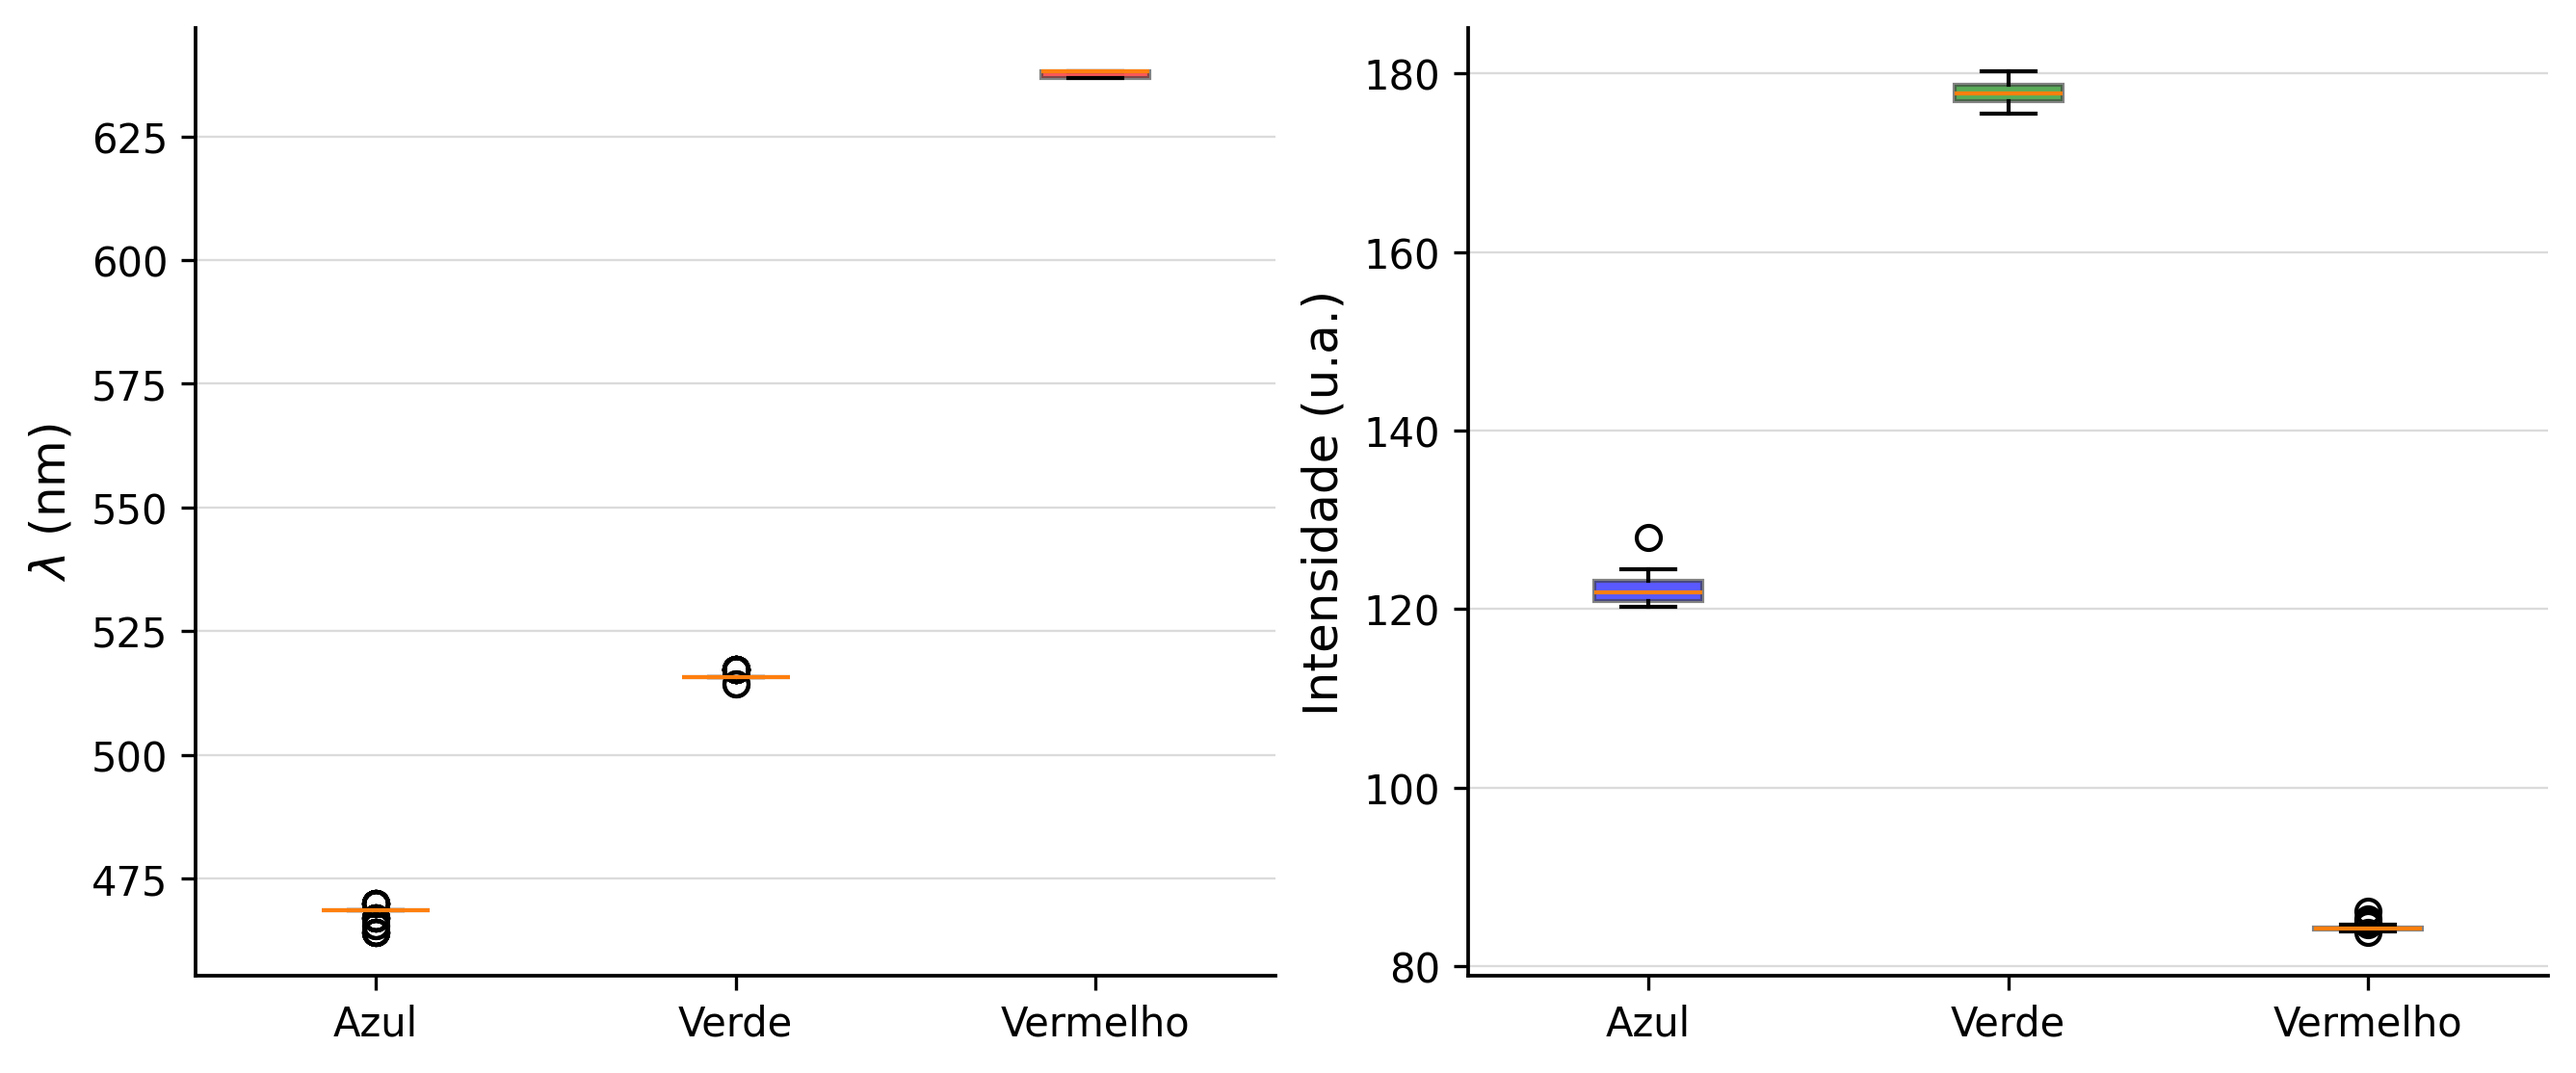
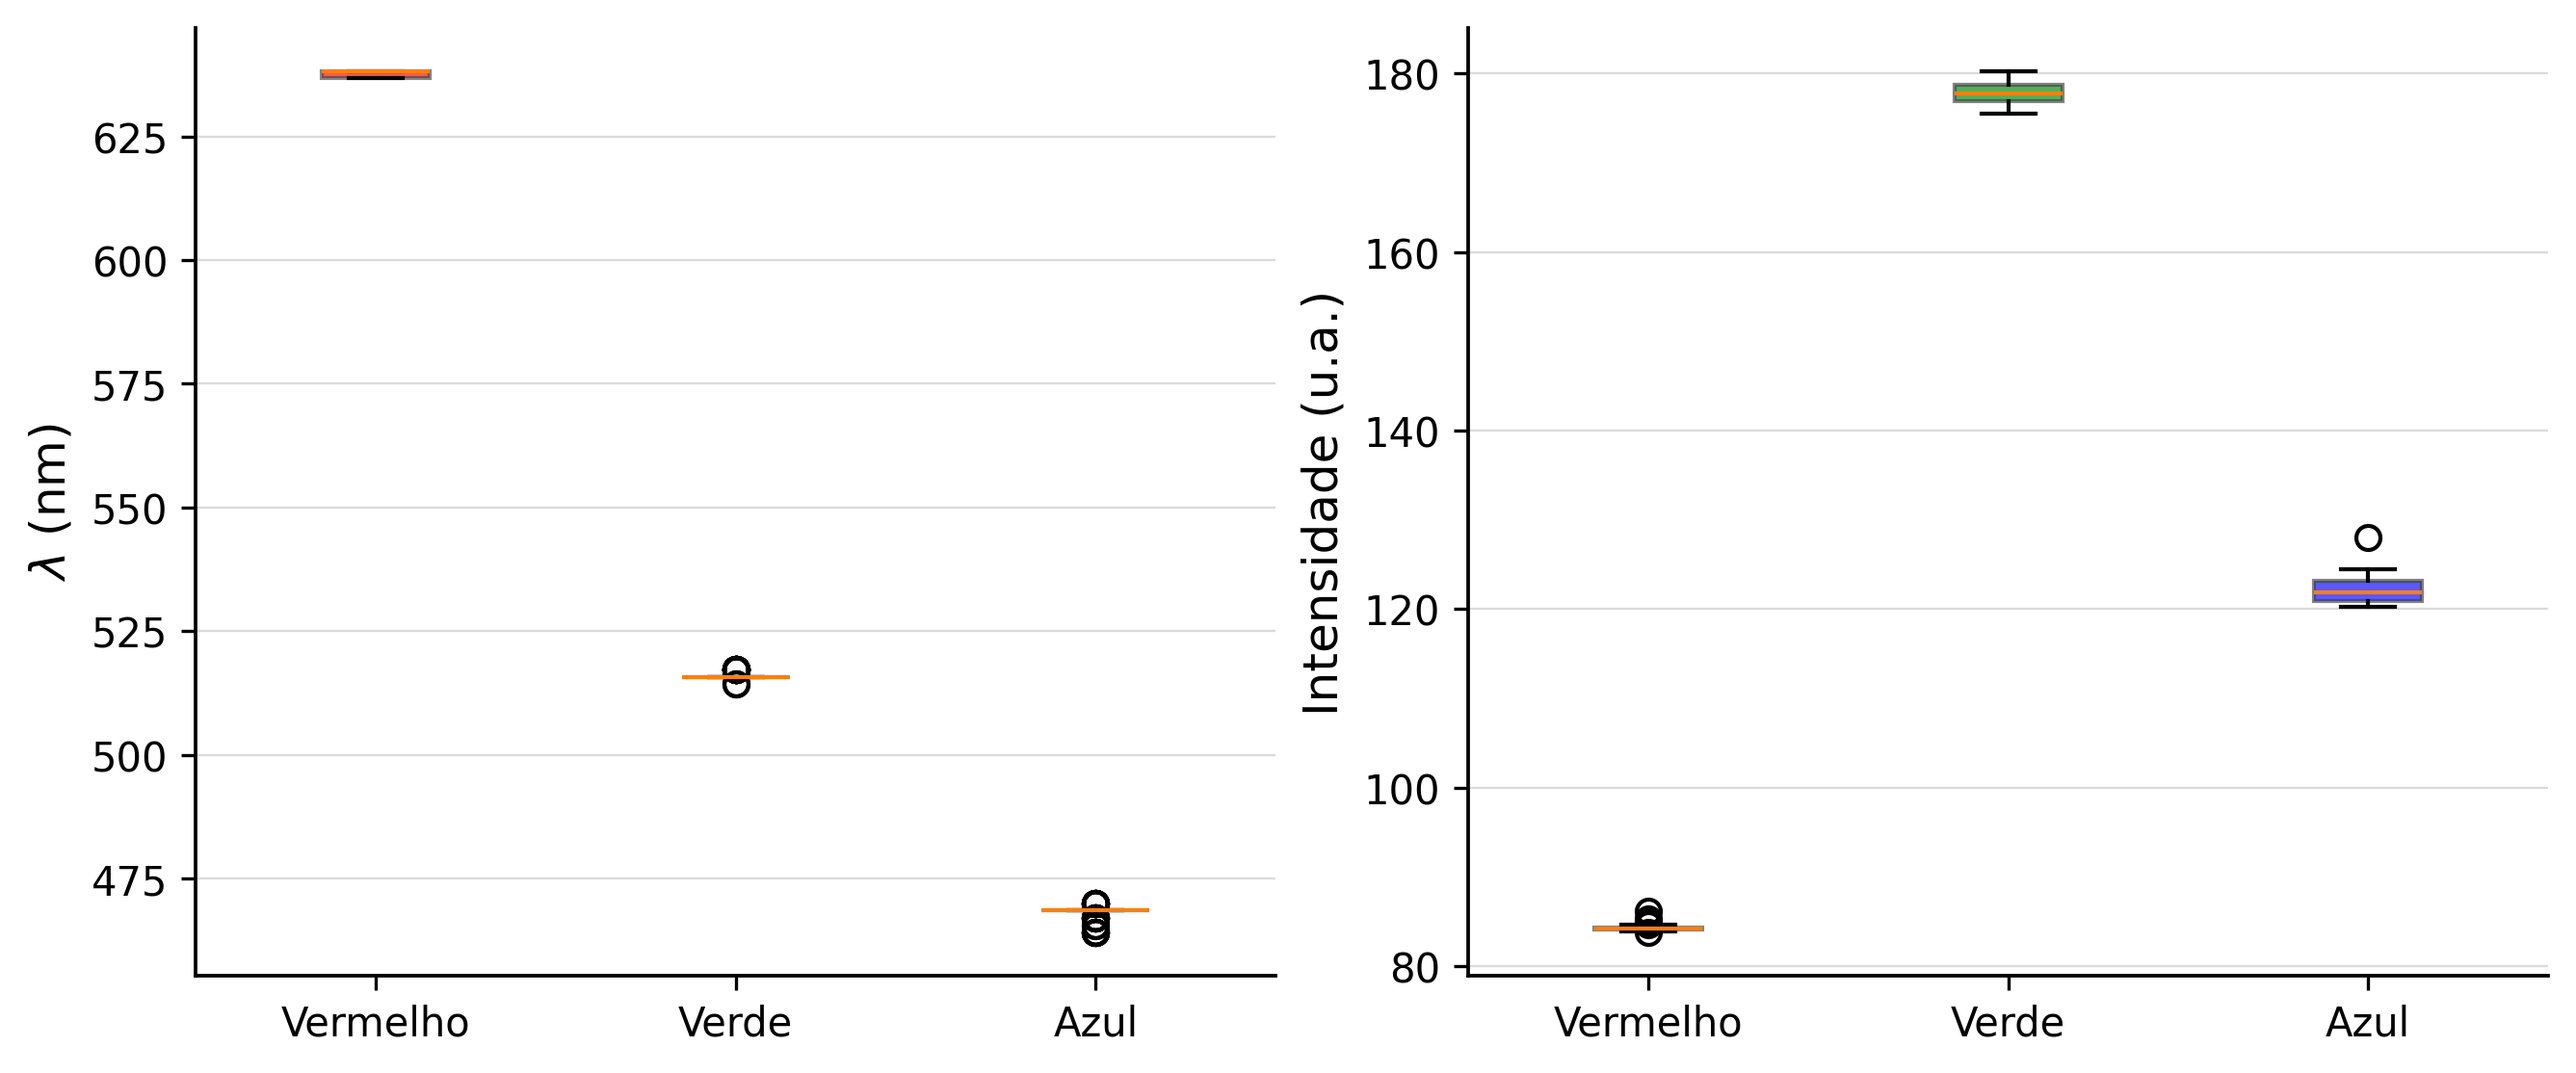
Improve paper temporal plot legend and RGB panel order
Order principal peaks as Vermelho-Verde-Azul in figures, console, and resultados_paper.txt. For evolucao_temporal_3_picos_RGB use distinct markers (triangle, plus, circle) per panel and gray legend glyphs for Dados; regenerate paper figures and comparison text.

Made-with: Cursor

diff --git a/Experimentos/scripts/analise2paper.py b/Experimentos/scripts/analise2paper.py
@@ -6,6 +6,9 @@ Análise de espectros do OSA Visível — variantes de figuras para artigo.
 Mesma lógica que analise.py; os gráficos estatísticos são salvos em
 ``resultados/paper_figures/<fonte>/`` e um resumo textual comparável vai para
 ``resultados/resultados_paper.txt`` (UTF-8, texto simples).
+
+Ordem dos picos principais nas figuras e resumos do paper: Vermelho, Verde, Azul
+(lambda medio decrescente).
 """
 
 import numpy as np
@@ -87,12 +90,40 @@ def _resultados_paper_path():
     return out_dir / "resultados_paper.txt"
 
 
+def _ordem_picos_paper_rvg(grupos_principais_dict, picos_principais_df):
+    """
+    Ordem fixa para figuras e textos do paper: Vermelho, Verde, Azul
+    (comprimento de onda medio decrescente nos picos principais).
+
+    Retorna lista [(grupo_id, grupo_data), ...] e o DataFrame de picos
+    principais alinhado a essa ordem.
+    """
+    if len(grupos_principais_dict) == 0:
+        return [], picos_principais_df
+
+    triplas = []
+    for gid, gdata in grupos_principais_dict.items():
+        sub = picos_principais_df.loc[picos_principais_df["Grupo"] == gid, "Comprimento_Onda_Medio_nm"]
+        if len(sub) > 0:
+            wl_m = float(sub.iloc[0])
+        else:
+            wl_m = float(gdata.get("wl_medio", np.nan))
+        triplas.append((gid, gdata, wl_m))
+
+    triplas.sort(key=lambda t: t[2], reverse=True)
+    pairs_ordered = [(t[0], t[1]) for t in triplas]
+    ordem_ids = [t[0] for t in triplas]
+    idx = picos_principais_df.set_index("Grupo")
+    pdf = idx.loc[ordem_ids].reset_index()
+    return pairs_ordered, pdf
+
+
 def _formatar_bloco_resultados_paper(nome_equipamento, estatisticas_df):
     """
     Texto conciso com metricas dos picos principais RGB (sem simbolos especiais).
     """
     df = estatisticas_df[estatisticas_df["Principal_RGB"] == "Sim"].copy()
-    df = df.sort_values("Comprimento_Onda_Medio_nm")
+    df = df.sort_values("Comprimento_Onda_Medio_nm", ascending=False)
     linhas = []
     linhas.append(f"--- {nome_equipamento} ---")
     linhas.append(f"Numero de picos principais: {len(df)}")
@@ -578,11 +609,20 @@ def gerar_graficos_estatisticos(grupos_picos, estatisticas_df, fonte="visible"):
     if len(grupos_principais) == 0:
         print("[AVISO] Nenhum pico principal identificado. Gerando gráficos de todos os picos.")
         grupos_principais = grupos_picos
+        pairs_ordered = list(grupos_principais.items())
+    else:
+        pairs_ordered, picos_principais_df = _ordem_picos_paper_rvg(
+            grupos_principais, picos_principais_df
+        )
 
-    num_grupos = len(grupos_principais)
+    num_grupos = len(pairs_ordered)
     letters = "abcdefghijklmnopqrstuvwxyz"
 
     # --- Gráfico 1: evolução temporal (enxuto para paper) ---
+    # Marcadores por painel (ordem RVG): triângulo, +, círculo; legenda em cinza escuro.
+    markers_temporal = ("^", "+", "o")
+    cor_legenda_dados = "0.28"
+
     with plt.rc_context(_matplotlib_paper_context()):
         fig, axes = plt.subplots(
             num_grupos,
@@ -594,7 +634,7 @@ def gerar_graficos_estatisticos(grupos_picos, estatisticas_df, fonte="visible"):
         if num_grupos == 1:
             axes = [axes]
 
-        for idx, (grupo_id, grupo_data) in enumerate(grupos_principais.items()):
+        for idx, (grupo_id, grupo_data) in enumerate(pairs_ordered):
             picos = grupo_data["picos"]
             amostras = [p["amostra_idx"] for p in picos]
             wl_values = [p["wl"] for p in picos]
@@ -602,7 +642,28 @@ def gerar_graficos_estatisticos(grupos_picos, estatisticas_df, fonte="visible"):
             cor = grupo_data.get("cor_rgb", "blue")
             nome_cor = grupo_data.get("nome_cor", "?")
             panel = f"({letters[idx]}) {nome_cor}"
-            ax.scatter(amostras, wl_values, alpha=0.72, s=22, color=cor, edgecolors="none")
+            mk = markers_temporal[idx % len(markers_temporal)]
+            pt_size = 30 if mk == "+" else 24
+            if mk == "+":
+                ax.scatter(
+                    amostras,
+                    wl_values,
+                    alpha=0.72,
+                    s=pt_size,
+                    marker=mk,
+                    color=cor,
+                )
+            else:
+                ax.scatter(
+                    amostras,
+                    wl_values,
+                    alpha=0.72,
+                    s=pt_size,
+                    marker=mk,
+                    color=cor,
+                    edgecolors="0.25",
+                    linewidths=0.35,
+                )
             wl_mean = estatisticas_df[estatisticas_df["Grupo"] == grupo_id][
                 "Comprimento_Onda_Medio_nm"
             ].values[0]
@@ -625,16 +686,36 @@ def gerar_graficos_estatisticos(grupos_picos, estatisticas_df, fonte="visible"):
             ax.set_ylim(centro - meia_largura, centro + meia_largura)
 
         axes[-1].set_xlabel("Amostra")
+        handles_legenda = []
+        for idx, (_, gd) in enumerate(pairs_ordered):
+            mk = markers_temporal[idx % len(markers_temporal)]
+            nome = gd.get("nome_cor", "?")
+            ms = 7 if mk != "+" else 8
+            handles_legenda.append(
+                Line2D(
+                    [0],
+                    [0],
+                    marker=mk,
+                    linestyle="none",
+                    color=cor_legenda_dados,
+                    markerfacecolor=cor_legenda_dados,
+                    markeredgecolor=cor_legenda_dados,
+                    markersize=ms,
+                    markeredgewidth=0.8,
+                    label=f"Dados ({nome})",
+                )
+            )
+        handles_legenda.append(
+            Line2D([0], [0], color="0.2", linestyle="--", linewidth=1.35, label="Média")
+        )
         fig.legend(
-            handles=[
-                Line2D([0], [0], marker="o", linestyle="", color="#3f57ff", markersize=6, label="Dados"),
-                Line2D([0], [0], color="0.2", linestyle="--", linewidth=1.35, label="Média"),
-            ],
+            handles=handles_legenda,
             loc="upper center",
             bbox_to_anchor=(0.5, 1.02),
-            ncol=2,
+            ncol=min(4, len(handles_legenda)),
             framealpha=0.95,
             edgecolor="0.85",
+            fontsize=9,
         )
         out1 = pasta_output / "evolucao_temporal_3_picos_RGB.png"
         fig.savefig(out1, dpi=300, bbox_inches="tight")
@@ -646,7 +727,7 @@ def gerar_graficos_estatisticos(grupos_picos, estatisticas_df, fonte="visible"):
     with plt.rc_context(_matplotlib_paper_context()):
         fig, axes = plt.subplots(1, 3, figsize=(10.2, 3.35), constrained_layout=True)
 
-        for idx, (grupo_id, grupo_data) in enumerate(grupos_principais.items()):
+        for idx, (grupo_id, grupo_data) in enumerate(pairs_ordered):
             picos = grupo_data["picos"]
             wl_values = np.array([p["wl"] for p in picos])
             cor = grupo_data.get("cor_rgb", "blue")
@@ -714,7 +795,7 @@ def gerar_graficos_estatisticos(grupos_picos, estatisticas_df, fonte="visible"):
 
         dados_wl, labels_wl, cores_wl = [], [], []
         dados_int, labels_int, cores_int = [], [], []
-        for grupo_id, grupo_data in grupos_principais.items():
+        for grupo_id, grupo_data in pairs_ordered:
             picos = grupo_data["picos"]
             nome_cor = grupo_data.get("nome_cor", "?")
             cor = grupo_data.get("cor_rgb", "lightblue")
@@ -845,8 +926,12 @@ def analise_estatistica_temporal(pasta_temporal=None, tolerancia_nm=5.0, fonte="
     # Calcula estatísticas
     estatisticas_df = calcular_estatisticas_picos(grupos_picos, num_amostras)
     
-    # Separa picos principais dos secundários
+    # Separa picos principais dos secundários (ordem paper: Vermelho, Verde, Azul)
     picos_principais_df = estatisticas_df[estatisticas_df['Principal_RGB'] == 'Sim'].copy()
+    if len(picos_principais_df) > 0:
+        picos_principais_df = picos_principais_df.sort_values(
+            "Comprimento_Onda_Medio_nm", ascending=False
+        )
     picos_secundarios_df = estatisticas_df[estatisticas_df['Principal_RGB'] == 'Não'].copy()
     
     # Exibe tabela de estatísticas dos 3 picos principais RGB
